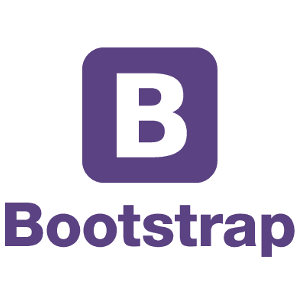
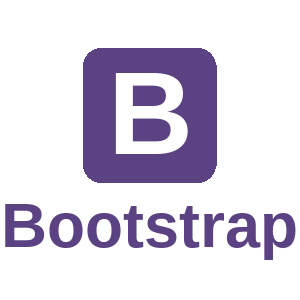
changed skills img

diff --git a/css/main.css b/css/main.css
@@ -229,7 +229,6 @@ a:after {
 	background-color: #2c405d;
 	padding-top: 100px;
 	padding-bottom: 60px;
-	color: white;
 }
 
 #skillswrap h5, p {
@@ -331,5 +330,5 @@ textarea {
 #logojs,
 #logobootstrap,
 #logogimp {
-  width: 75%;
+  width: 50%;
 }
